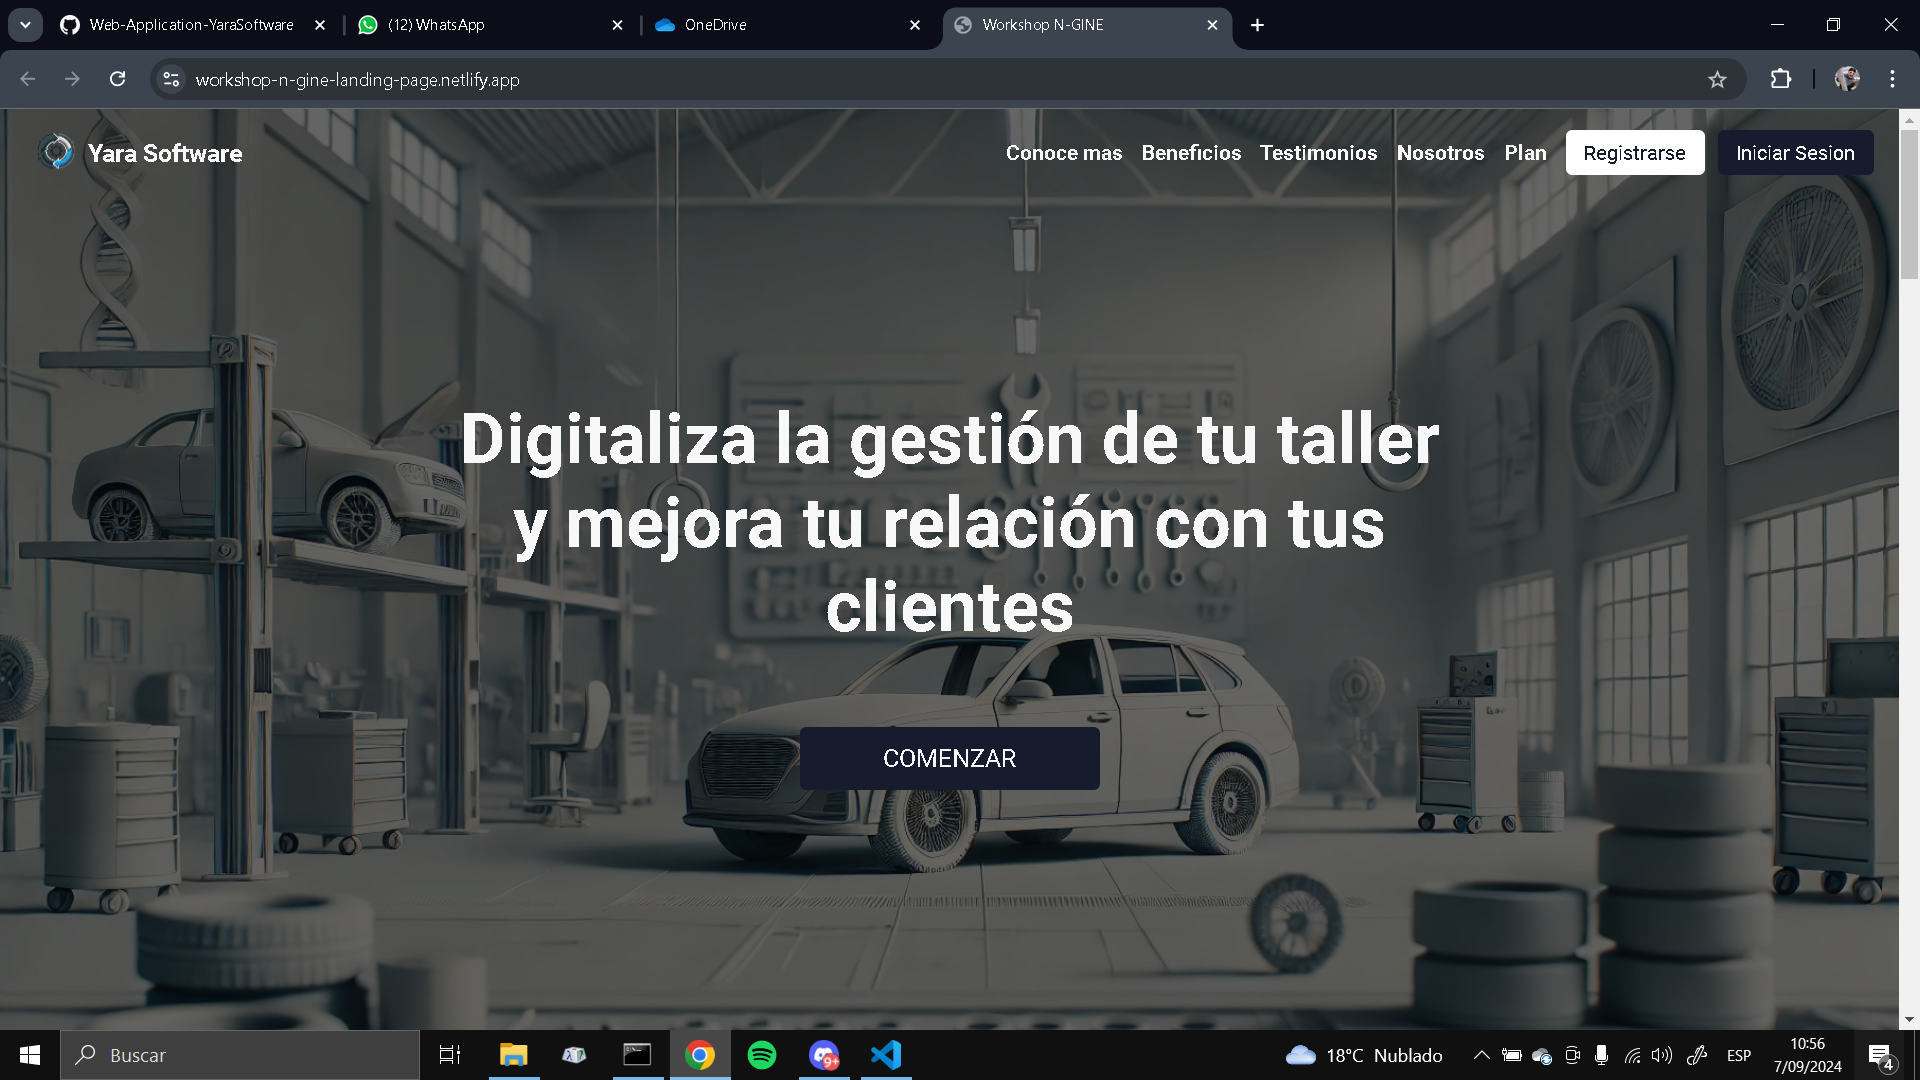
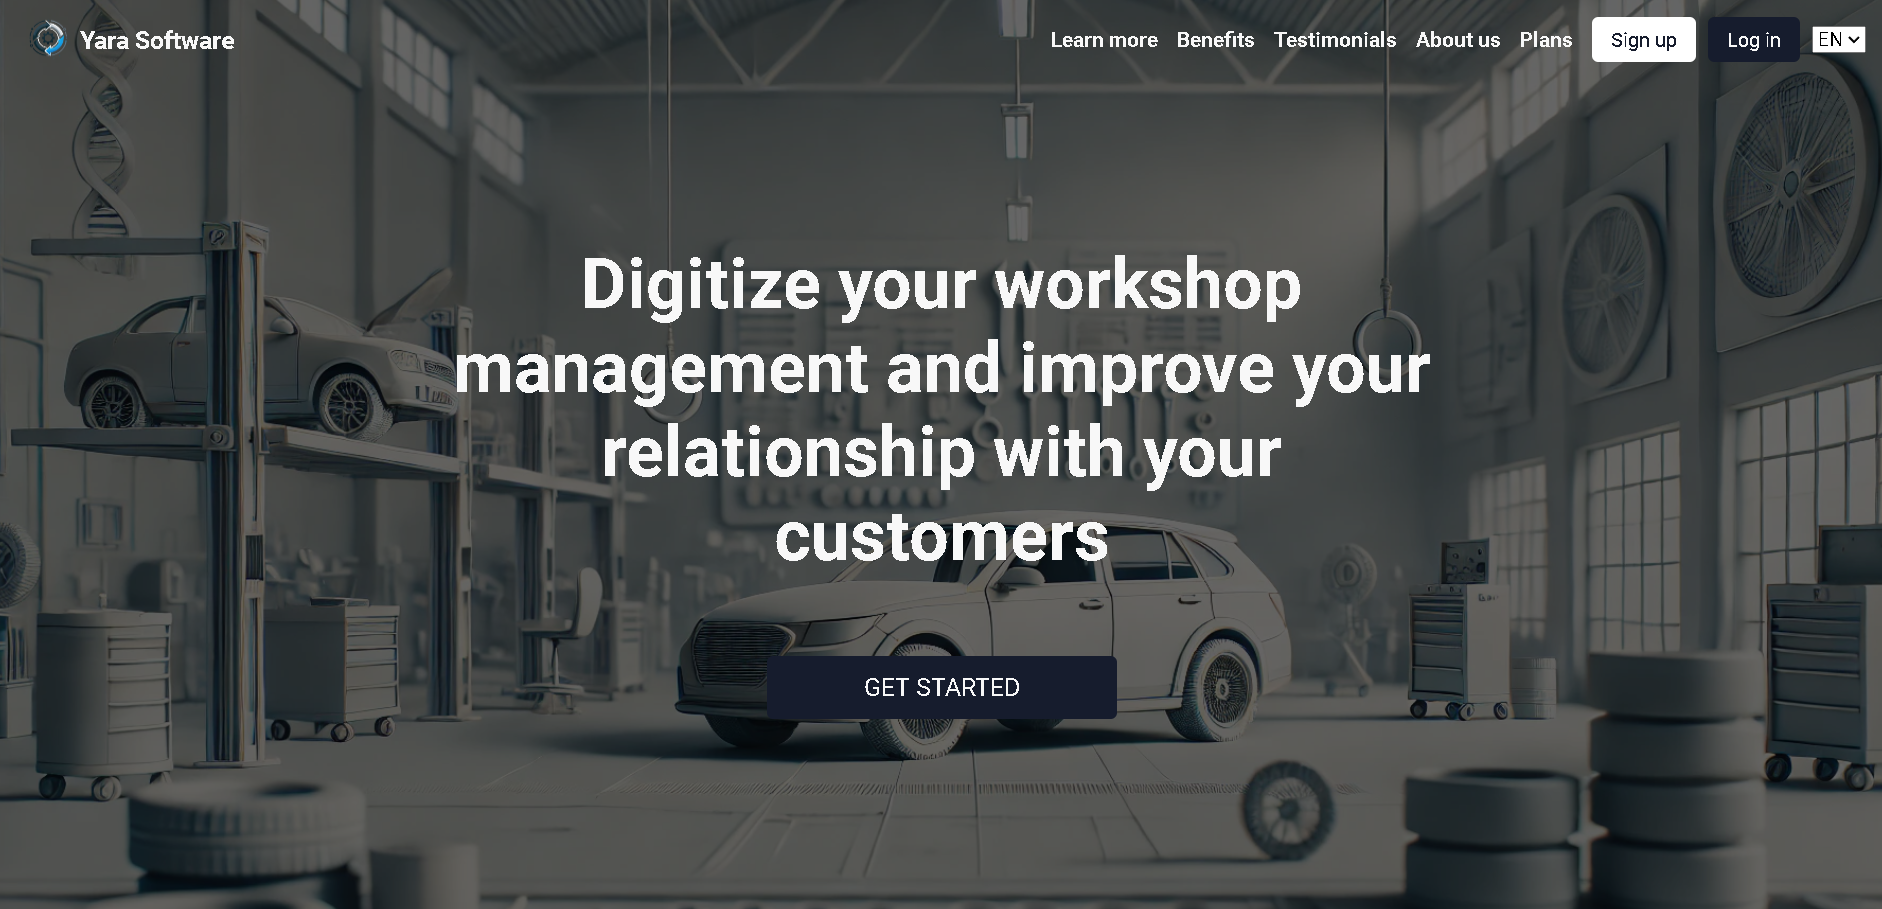
chore: add new photos of landing page and buf fixes in insights

diff --git a/upc-pre-202402-si729-sw57-YaraSoftware-report-tb1.md b/upc-pre-202402-si729-sw57-YaraSoftware-report-tb1.md
@@ -64,6 +64,7 @@
 | 5.2.0 | 07/09/2024 | Henry Reaño Delgadillo | Se agrega la sección correspondiente a convenciones en la codificación y configuración de despliegue |
 | 5.3.0 | 07/09/2024 | Henry Reaño Delgadillo | Se agrega la sección de sprint planning 1 y sprint backlog 1 | 
 | 5.4.0 | 07/09/2024 | Henry Reaño Delgadillo | Se agrega las secciones de evidencias e insights del sprint 1 |
+| 5.4.1 | 08/09/2024 | Henry Reaño Delgadillo | Se agrega nuevas fotos relacionadas a la landing page y correción de errores en los insights |
 
 <div style="page-break-after: always;"></div>
 
@@ -2468,42 +2469,37 @@ A continuación, se procedera a detallar en una tabla las user story vinculadas 
 
 | Repository | Branch | Commit id | Commit message | Commit body | Commited on |
 | - | - | - | - | - | - |
-| Open-Source-YaraSoftware / Landing-page |  | 5e3f9bb398ca81cd655e3bc649255e2d171bdb22 | chore: add all required images for the entire project | ... | 08/09/2024 |
-| Open-Source-YaraSoftware / Landing-page |  | 9bb4007d76994003db24c9ae76608330ed37db0a | chore: configure sass folder and import all components into main.scss | ... | 08/09/2024 |
-| Open-Source-YaraSoftware / Landing-page |  | 3974cb03d4e26554bd9362891995d263e2b2fd66 | chore: set up global styles and add normalize, mixins, and variables | ... | 08/09/2024 |
-| Open-Source-YaraSoftware / Landing-page |  | 650d57af23cdbb155ddaeeffac39b555bc035585 | chore: import Roboto font via Google Fonts link in index.html | ... | 08/09/2024 |
-| Open-Source-YaraSoftware / Landing-page |  | 1937f6d1ceda82e273486ca12f8d70c70445c2f2 | feat: add header html section with navigation and banner | ... | 08/09/2024 |
-| Open-Source-YaraSoftware / Landing-page |  | 86ac708701a2f0a199e601cfe7ab340c14116afe | feat: add SCSS component for buttonAction with hover effect and full-width styling | ... | 08/09/2024 |
-| Open-Source-YaraSoftware / Landing-page |  | 9b7f312eb7dc4bd9f11dadd310794696b2d8e1ec | feat: add header styling with background image, overlay, and responsive layout | ... | 08/09/2024 |
-| Open-Source-YaraSoftware / Landing-page |  | f54f80a0228d5d26e428a9ba0d9891fe3f40542a | feat: add responsive banner styling with image, content, and button layout | ... | 08/09/2024 |
+| Open-Source-YaraSoftware / Landing-page | develop | 5e3f9bb398ca81cd655e3bc649255e2d171bdb22 | chore: add all required images for the entire project | ... | 08/09/2024 |
+| Open-Source-YaraSoftware / Landing-page |  develop | 9bb4007d76994003db24c9ae76608330ed37db0a | chore: configure sass folder and import all components into main.scss | ... | 08/09/2024 |
+| Open-Source-YaraSoftware / Landing-page |  develop | 3974cb03d4e26554bd9362891995d263e2b2fd66 | chore: set up global styles and add normalize, mixins, and variables | ... | 08/09/2024 |
+| Open-Source-YaraSoftware / Landing-page |  develop | 650d57af23cdbb155ddaeeffac39b555bc035585 | chore: import Roboto font via Google Fonts link in index.html | ... | 08/09/2024 |
+| Open-Source-YaraSoftware / Landing-page |  develop | 1937f6d1ceda82e273486ca12f8d70c70445c2f2 | feat: add header html section with navigation and banner | ... | 08/09/2024 |
+| Open-Source-YaraSoftware / Landing-page |  develop | 86ac708701a2f0a199e601cfe7ab340c14116afe | feat: add SCSS component for buttonAction with hover effect and full-width styling | ... | 08/09/2024 |
+| Open-Source-YaraSoftware / Landing-page |  develop | 9b7f312eb7dc4bd9f11dadd310794696b2d8e1ec | feat: add header styling with background image, overlay, and responsive layout | ... | 08/09/2024 |
+| Open-Source-YaraSoftware / Landing-page |  develop | f54f80a0228d5d26e428a9ba0d9891fe3f40542a | feat: add responsive banner styling with image, content, and button layout | ... | 08/09/2024 |
 | Open-Source-YaraSoftware / Landing-page |  | 2b3d1fc936238f202980b9b35e0c2f6a07c4ce83 | feat: add responsive navbar styling with dark mode and dynamic menu functionality | ... | 08/09/2024 |
 | Open-Source-YaraSoftware / Landing-page |  | 77c11649aaaa520e92008d6d081e81a44dce4f60 | feat: add toggle functionality for mobile menu and reset on resize | ... | 08/09/2024 |
-| Open-Source-YaraSoftware / Landing-page |  | e410d8ab8170bf09953f246e85d0a70b2fc98ffb | feat: add functionality to change navbar color after scrolling past header | ... | 08/09/2024 |
-| Open-Source-YaraSoftware / Landing-page |  | b5c803d3e867eada59b765d8ee84f35d2a8e30a3 | feat: add learn more section with header, image, and contact button | ... | 08/09/2024 |
-| Open-Source-YaraSoftware / Landing-page |  | f85d871514d67ec29c5136f48b0bd13b5b641457 | feat: add our benefits section with cards detailing platform advantages | ... | 08/09/2024 |
-| Open-Source-YaraSoftware / Landing-page |  | c6f36ec8ebd2fa128c77f4fff0985b970c00843c | feat: add responsive styling for our benefits section with card layout and grid adjustments | ... | 08/09/2024 |
-| Open-Source-YaraSoftware / Landing-page |  | 25000c95c8c3a60943d0be13ec92085cc610d2fa | feat: add testimonials section with client feedback cards | ... | 08/09/2024 |
-| Open-Source-YaraSoftware / Landing-page |  | c2b85b4d114d29cbc7c9c7cd991106af9e756699 | feat: add responsive styling for testimonials section with horizontal scroll and card hover effect | ... | 08/09/2024 |
-| Open-Source-YaraSoftware / Landing-page |  | ba8726e8adbb3834ff6025d0973026197a016a4a | feat: add auto-scrolling carousel functionality with reverse direction at end | ... | 08/09/2024 |
-| Open-Source-YaraSoftware / Landing-page |  | 64b1b758a6da3add09712d128b55aedbacf75c43 | fix: remove duplicate section tags | ... | 08/09/2024 |
-| Open-Source-YaraSoftware / Landing-page |  | a14e96add7d95b8242f2746007c38e5512a6a51a | fix: remove duplicate header tag | ... | 08/09/2024 |
-| Open-Source-YaraSoftware / Landing-page |  | c8dbb4a61bf1889e0beb0065bed2c695284399f5 | feat: add about us section with mission, vision, and values cards | ... | 08/09/2024 |
-| Open-Source-YaraSoftware / Landing-page |  | 507a95956b723c248520d33a2e471b46d9736eea | feat: add responsive styling for about us section with card flipping effect | ... | 08/09/2024 |
-| Open-Source-YaraSoftware / Landing-page |  | 671e481e5c4dc96ce7e4dedbb8d4397b4ecc6f98 | feat: add plans section with pricing cards for free, basic, and premium plans | ... | 08/09/2024 |
-| Open-Source-YaraSoftware / Landing-page |  | 23c892fb608cbd35f67490e57b830ae7b60cf391 | feat: add responsive styling for the plans section with card layout and dark mode option for premium | ... | 08/09/2024 |
-| Open-Source-YaraSoftware / Landing-page |  | 5b13f1a3c03efc06e65eaf541c5f111b439428dd | feat: add contact form section with inputs for name, email, phone, and message | ... | 08/09/2024 |
-| Open-Source-YaraSoftware / Landing-page |  | 636e8c32bd44b3c1c2d0988a2c33ae279877e2af | feat: add responsive styling for contact form section with layout adjustments | ... | 08/09/2024 |
-| Open-Source-YaraSoftware / Landing-page |  |  | ... | ... | ... |
-| Open-Source-YaraSoftware / Landing-page |  |  | ... | ... | ... |
-| Open-Source-YaraSoftware / Landing-page |  |  | ... | ... | ... |
-| Open-Source-YaraSoftware / Landing-page |  |  | ... | ... | ... |
-| Open-Source-YaraSoftware / Landing-page |  |  | ... | ... | ... |
-| Open-Source-YaraSoftware / Landing-page |  |  | ... | ... | ... |
-| Open-Source-YaraSoftware / Landing-page |  |  | ... | ... | ... |
-| Open-Source-YaraSoftware / Landing-page |  |  | ... | ... | ... |
-| Open-Source-YaraSoftware / Landing-page |  |  | ... | ... | ... |
-| Open-Source-YaraSoftware / Landing-page |  |  | ... | ... | ... |
-| Open-Source-YaraSoftware / Landing-page |  |  | ... | ... | ... |
+| Open-Source-YaraSoftware / Landing-page | feature/footer  | e410d8ab8170bf09953f246e85d0a70b2fc98ffb | feat: add functionality to change navbar color after scrolling past header | ... | 08/09/2024 |
+| Open-Source-YaraSoftware / Landing-page |  feature/about-us | b5c803d3e867eada59b765d8ee84f35d2a8e30a3 | feat: add learn more section with header, image, and contact button | ... | 08/09/2024 |
+| Open-Source-YaraSoftware / Landing-page | feature/benefits | f85d871514d67ec29c5136f48b0bd13b5b641457 | feat: add our benefits section with cards detailing platform advantages | ... | 08/09/2024 |
+| Open-Source-YaraSoftware / Landing-page | feature/benefits | c6f36ec8ebd2fa128c77f4fff0985b970c00843c | feat: add responsive styling for our benefits section with card layout and grid adjustments | ... | 08/09/2024 |
+| Open-Source-YaraSoftware / Landing-page | feature/testimonials | 25000c95c8c3a60943d0be13ec92085cc610d2fa | feat: add testimonials section with client feedback cards | ... | 08/09/2024 |
+| Open-Source-YaraSoftware / Landing-page | feature/testimonials | c2b85b4d114d29cbc7c9c7cd991106af9e756699 | feat: add responsive styling for testimonials section with horizontal scroll and card hover effect | ... | 08/09/2024 |
+| Open-Source-YaraSoftware / Landing-page | feature/testimonials | ba8726e8adbb3834ff6025d0973026197a016a4a | feat: add auto-scrolling carousel functionality with reverse direction at end | ... | 08/09/2024 |
+| Open-Source-YaraSoftware / Landing-page | feature/testimonials | 64b1b758a6da3add09712d128b55aedbacf75c43 | fix: remove duplicate section tags | ... | 08/09/2024 |
+| Open-Source-YaraSoftware / Landing-page | feature/testimonials | a14e96add7d95b8242f2746007c38e5512a6a51a | fix: remove duplicate header tag | ... | 08/09/2024 |
+| Open-Source-YaraSoftware / Landing-page | ... | c8dbb4a61bf1889e0beb0065bed2c695284399f5 | feat: add about us section with mission, vision, and values cards | ... | 08/09/2024 |
+| Open-Source-YaraSoftware / Landing-page | ... | 507a95956b723c248520d33a2e471b46d9736eea | feat: add responsive styling for about us section with card flipping effect | ... | 08/09/2024 |
+| Open-Source-YaraSoftware / Landing-page | ... | 671e481e5c4dc96ce7e4dedbb8d4397b4ecc6f98 | feat: add plans section with pricing cards for free, basic, and premium plans | ... | 08/09/2024 |
+| Open-Source-YaraSoftware / Landing-page | ... | 23c892fb608cbd35f67490e57b830ae7b60cf391 | feat: add responsive styling for the plans section with card layout and dark mode option for premium | ... | 08/09/2024 |
+| Open-Source-YaraSoftware / Landing-page | ... | 5b13f1a3c03efc06e65eaf541c5f111b439428dd | feat: add contact form section with inputs for name, email, phone, and message | ... | 08/09/2024 |
+| Open-Source-YaraSoftware / Landing-page | ... | 636e8c32bd44b3c1c2d0988a2c33ae279877e2af | feat: add responsive styling for contact form section with layout adjustments | ... | 08/09/2024 |
+| Open-Source-YaraSoftware / Landing-page | ... | feat: add contact form section with inputs for name, email, phone, and message | 9e612093d32f77bccf751433cfb09f1dfd4b07a8 | ... | 08/09/2024 |
+| Open-Source-YaraSoftware / Landing-page | ... | 9c03f279a6212a8137315f45c3e461c37c9d3beb | feat: add responsive styling for contact form section with layout adjustments | ... | 08/09/2024 |
+| Open-Source-YaraSoftware / Landing-page | ... | d1a8726bec3dc8279edfd5a9853be831dbea0134 | feat: add footer section with sign up, useful links, contact info, and legal details | ... | 08/09/2024 |
+| Open-Source-YaraSoftware / Landing-page | ... | 152d4c6af5ad0414da4a89d5cdc2f79b53a89eb1 | feat: add responsive styling for footer with contact, sign-up, and legal sections | ... | 08/09/2024 |
+| Open-Source-YaraSoftware / Landing-page | ... | 561b4bc27d17c62ed0795295110fc83d0a777c92 | fix: remove duplicate footer tag | ... | 08/09/2024 |
+| Open-Source-YaraSoftware / Landing-page | ... | 40c00418fea99d1f830bb6b943665ddb16008180 | feat: add language switch functionality and static spanish page | ... | 08/09/2024 |
 
 #### 5.2.1.4. Testing Suite Evidence for Sprint Review
 
@@ -2516,12 +2512,13 @@ En el desarrollo del sprint 1 se logró desplegar las funcionalidades descritas 
 El desarrollo de la Hero Section con una imagen imponente y llamativa para el usuario.
 <img src="img/5/2/1/4/hero.png">
 
-
 La sección About Us que describe nuestra empresa, nuestros valores y visión.
 <img src="img/5/2/1/4/about_us.png">
 
 La sección de planes, centrada en ser atractiva para el usuario.
 <img src="img/5/2/1/4/plans.png">
+
+Enlace de video de navegación landing page: ...
 
 #### 5.2.1.6. Services Documentation Evidence for Sprint Review
 
@@ -2538,7 +2535,7 @@ Para la entrega del Sprint número 1, se desplego al completo landing page la cu
 <img src="img/5/2/1/7/5.png">
 <img src="img/5/2/1/7/6.png">
 
-Enlace para acceder a la landing page: ...
+Enlace para acceder a la landing page: https://landing-page-workshop-n-gine.netlify.app/
 
 #### 5.2.1.8. Team Collaboration Insights during Sprint
 
@@ -2549,6 +2546,8 @@ Enlace para acceder a la landing page: ...
 | Álvaro Orozco Torres | Implementación del Formulario de Contacto |
 | Henry Reaño Delgadillo | Implementación de Planes |
 | Elmer Riva Rodriguez | Implementación de Beneficios y About Us |
+
+<img src="img/5/2/1/8/insights.png">
 
 ## 5.3. Validation Interviews
 

diff --git a/README.md b/README.md
@@ -1,2 +1,2 @@
 # Versión
-5.4.0
+5.4.1
